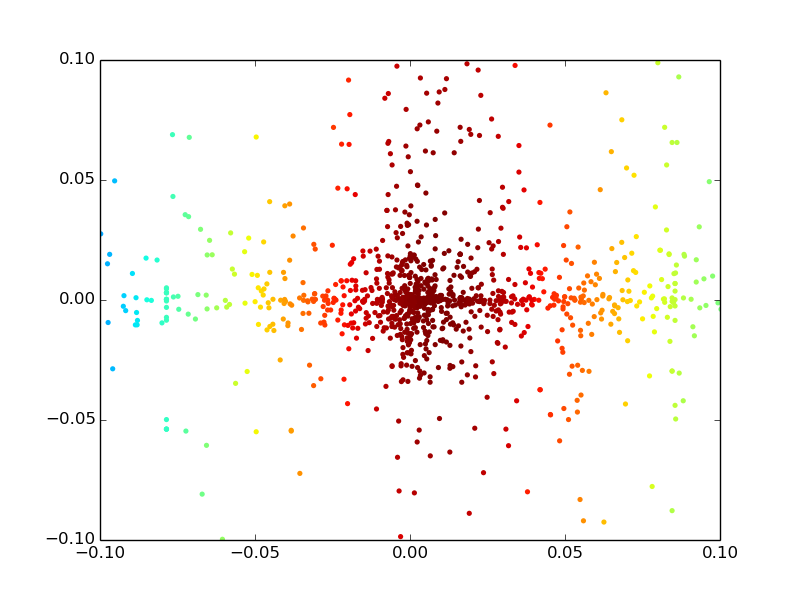
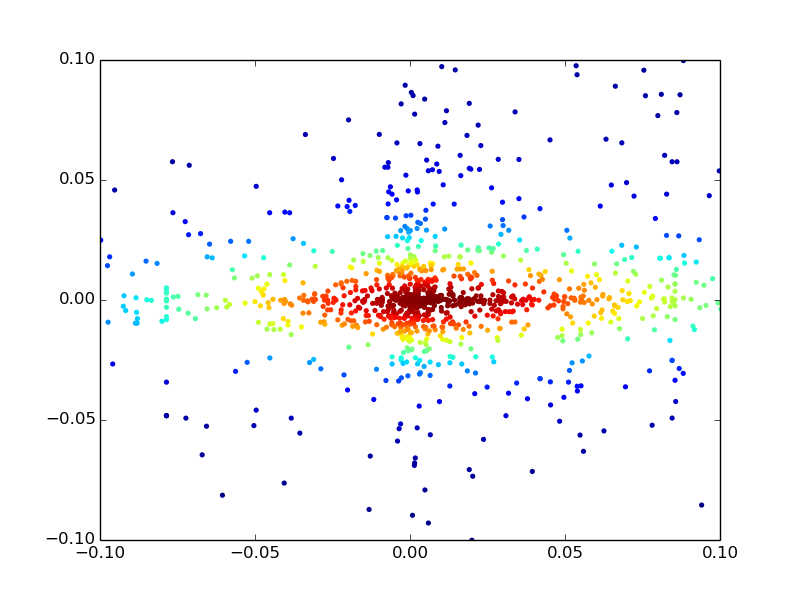
updates

diff --git a/src/model_parameter_comparison.py b/src/model_parameter_comparison.py
@@ -75,8 +75,9 @@ def run2(file1,file2,file3):
             CAgenes = float(CAgenes)
             CATSS = float(CATSS)
             if CAgenes-CATSS != 0 and DMSOgenes-DMSOTSS != 0 and CAgenes > cut and DMSOgenes > cut:
-                TR = (CATSS/(CAgenes))-(DMSOTSS/(DMSOgenes))
-                d3[gene] = TR
+                if int(gene.split(';')[2].split(':')[1].split('_')[0].split('-')[1])-int(gene.split(';')[2].split(':')[1].split('_')[0].split('-')[0]) > 1000:
+                    TR = (CATSS/(CAgenes-CATSS))-(DMSOTSS/(DMSOgenes-DMSOTSS))
+                    d3[gene] = TR
     x = list()
     y = list()
     for gene in d1:
